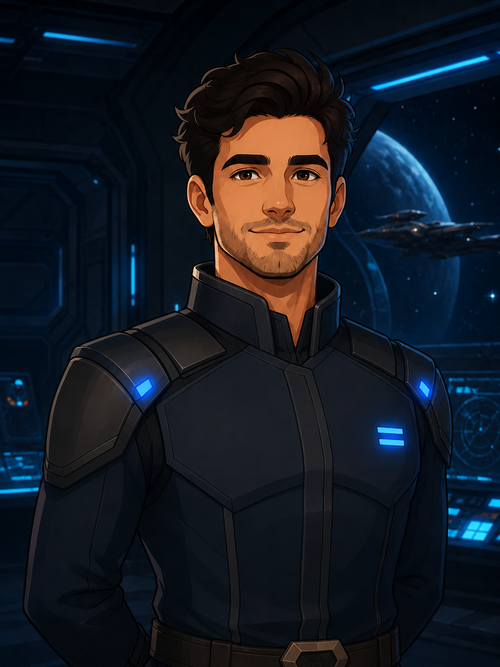
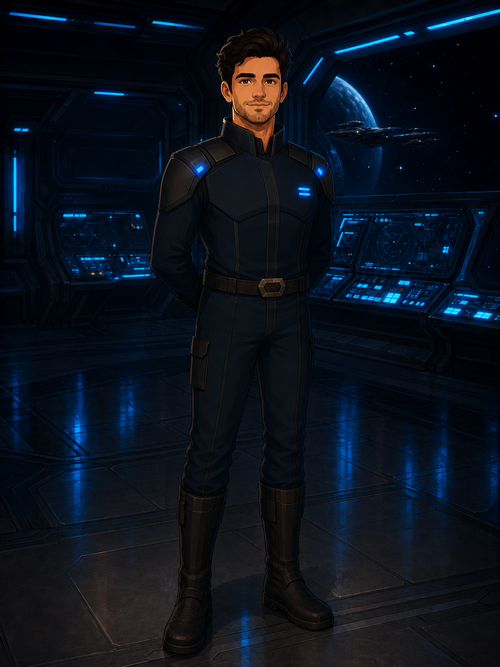
0.0.1 (venda de ouro)

diff --git a/script.js b/script.js
@@ -499,8 +499,12 @@ function aplicarEstadoPioneira(estadoRecebido = null) {
 
   const combustivelTexto = document.getElementById("combustivelNaveTexto");
   const combustivelBarra = document.getElementById("combustivelNaveBarra");
+  const combustivelLocalizacaoTexto = document.getElementById("combustivelLocalizacaoTexto");
+  const combustivelLocalizacaoBarra = document.getElementById("combustivelLocalizacaoBarra");
   const usoTexto = document.getElementById("usoNaveTexto");
   const usoBarra = document.getElementById("usoNaveBarra");
+  const usoLocalizacaoTexto = document.getElementById("usoLocalizacaoTexto");
+  const usoLocalizacaoBarra = document.getElementById("usoLocalizacaoBarra");
 
   const capacidadeCombustivel = 80;
   const capacidadeUso = 100;
@@ -511,21 +515,24 @@ function aplicarEstadoPioneira(estadoRecebido = null) {
   const percentualCombustivel = (combustivel / capacidadeCombustivel) * 100;
   const percentualUso = (uso / capacidadeUso) * 100;
 
-  if (combustivelTexto) {
-    combustivelTexto.textContent = `${Number.isInteger(combustivel) ? combustivel : combustivel.toFixed(1)} / ${capacidadeCombustivel}`;
-  }
+  const textoCombustivel = `${Number.isInteger(combustivel) ? combustivel : combustivel.toFixed(1)} / ${capacidadeCombustivel}`;
+  const textoUso = `${Number.isInteger(uso) ? uso : uso.toFixed(1)} / ${capacidadeUso}`;
 
-  if (combustivelBarra) {
-    combustivelBarra.style.width = `${percentualCombustivel}%`;
-  }
+  [combustivelTexto, combustivelLocalizacaoTexto].forEach((elemento) => {
+    if (elemento) elemento.textContent = textoCombustivel;
+  });
 
-  if (usoTexto) {
-    usoTexto.textContent = `${Number.isInteger(uso) ? uso : uso.toFixed(1)} / ${capacidadeUso}`;
-  }
+  [combustivelBarra, combustivelLocalizacaoBarra].forEach((elemento) => {
+    if (elemento) elemento.style.width = `${percentualCombustivel}%`;
+  });
 
-  if (usoBarra) {
-    usoBarra.style.width = `${percentualUso}%`;
-  }
+  [usoTexto, usoLocalizacaoTexto].forEach((elemento) => {
+    if (elemento) elemento.textContent = textoUso;
+  });
+
+  [usoBarra, usoLocalizacaoBarra].forEach((elemento) => {
+    if (elemento) elemento.style.width = `${percentualUso}%`;
+  });
 }
 
 aplicarEstadoPioneira();
@@ -694,7 +701,6 @@ function renderizarInventarioPioneira() {
     if (!item) return;
 
     slot.classList.add("preenchido");
-    slot.title = `${item.nome}: ${item.quantidade}`;
     slot.setAttribute("aria-label", `${item.nome}, quantidade ${item.quantidade}`);
 
     const elemento = document.createElement("div");
@@ -834,9 +840,23 @@ const botaoReabastecer = document.getElementById("botaoReabastecer");
 const botaoReparar = document.getElementById("botaoReparar");
 
 const modalVenda = document.getElementById("modalVenda");
+const tituloModalVenda = document.getElementById("tituloModalVenda");
 const textoConfirmacaoVenda = document.getElementById("textoConfirmacaoVenda");
+const inputQuantidadeVenda = document.getElementById("inputQuantidadeVenda");
 const cancelarVenda = document.getElementById("cancelarVenda");
 const confirmarVenda = document.getElementById("confirmarVenda");
+const textoAjudaNaveMae = document.querySelector(".nave-mae-ajuda");
+const rotuloCombustivelLocalizacao = document.querySelector(
+  ".estado-localizacao .estado-nave:first-child .estado-nave-topo span"
+);
+
+if (textoAjudaNaveMae) {
+  textoAjudaNaveMae.textContent = "Venda";
+}
+
+if (rotuloCombustivelLocalizacao) {
+  rotuloCombustivelLocalizacao.textContent = "Xen\u00f4nio-9";
+}
 
 const LOCALIZACOES = {
   Terra: {
@@ -1019,6 +1039,7 @@ iniciarViagem = function(destino) {
 
 // ===== VENDA DE OURO NA NAVE MÃE =====
 let quantidadeOuroParaVenda = 0;
+let quantidadeMaximaOuroParaVenda = 0;
 
 function renderizarInventarioNaveMae() {
   if (!inventarioNaveMae) return;
@@ -1037,7 +1058,6 @@ function renderizarInventarioNaveMae() {
       <strong>${item.quantidade}</strong>
       <span>${item.nome}</span>
     `;
-    botao.title = `${item.nome}: ${item.quantidade}`;
     botao.setAttribute("aria-label", `${item.nome}, quantidade ${item.quantidade}`);
 
     if (item.id === "ouro") {
@@ -1103,6 +1123,118 @@ function venderTodoOuro() {
   fecharVendaOuro();
 }
 
+function normalizarQuantidadeVenda(valor) {
+  const maximo = Math.max(0, Math.floor(Number(quantidadeMaximaOuroParaVenda) || 0));
+  const numero = Math.floor(Number(valor));
+
+  if (maximo <= 0) return 0;
+  if (!Number.isFinite(numero) || numero < 1) return 1;
+
+  return Math.min(numero, maximo);
+}
+
+function atualizarResumoVenda(ajustarCampo = false) {
+  const quantidade = normalizarQuantidadeVenda(
+    inputQuantidadeVenda ? inputQuantidadeVenda.value : quantidadeOuroParaVenda
+  );
+
+  quantidadeOuroParaVenda = quantidade;
+
+  if (inputQuantidadeVenda && ajustarCampo) {
+    inputQuantidadeVenda.value = String(quantidade);
+  }
+
+  if (textoConfirmacaoVenda) {
+    textoConfirmacaoVenda.textContent =
+      `Voc\u00ea possui ${quantidadeMaximaOuroParaVenda} de ouro. Cada ouro vale 1 cr\u00e9dito.`;
+  }
+
+  if (confirmarVenda) {
+    confirmarVenda.textContent = `Vender ${quantidade}`;
+  }
+}
+
+abrirVendaOuro = function(quantidade) {
+  quantidadeMaximaOuroParaVenda = Math.max(0, Math.floor(Number(quantidade) || 0));
+  quantidadeOuroParaVenda = Math.min(1, quantidadeMaximaOuroParaVenda);
+
+  if (tituloModalVenda) {
+    tituloModalVenda.textContent = "Vender ouro?";
+  }
+
+  if (inputQuantidadeVenda) {
+    inputQuantidadeVenda.max = String(quantidadeMaximaOuroParaVenda);
+    inputQuantidadeVenda.value = String(quantidadeOuroParaVenda);
+    inputQuantidadeVenda.disabled = quantidadeMaximaOuroParaVenda <= 0;
+  }
+
+  atualizarResumoVenda(true);
+  modalVenda.classList.add("ativo");
+  modalVenda.setAttribute("aria-hidden", "false");
+
+  if (inputQuantidadeVenda) {
+    inputQuantidadeVenda.focus();
+    inputQuantidadeVenda.select();
+  }
+};
+
+fecharVendaOuro = function() {
+  modalVenda.classList.remove("ativo");
+  modalVenda.setAttribute("aria-hidden", "true");
+  quantidadeOuroParaVenda = 0;
+  quantidadeMaximaOuroParaVenda = 0;
+
+  if (inputQuantidadeVenda) {
+    inputQuantidadeVenda.value = "1";
+    inputQuantidadeVenda.removeAttribute("max");
+    inputQuantidadeVenda.disabled = false;
+  }
+
+  if (confirmarVenda) {
+    confirmarVenda.textContent = "Vender 1";
+  }
+};
+
+venderTodoOuro = function() {
+  quantidadeOuroParaVenda = normalizarQuantidadeVenda(
+    inputQuantidadeVenda ? inputQuantidadeVenda.value : quantidadeOuroParaVenda
+  );
+
+  if (quantidadeOuroParaVenda <= 0) return;
+
+  const inventario = carregarInventarioPioneira();
+  const indice = inventario.findIndex((item) => item?.id === "ouro");
+
+  if (indice < 0) {
+    fecharVendaOuro();
+    return;
+  }
+
+  const quantidadeVendida = Math.min(
+    quantidadeOuroParaVenda,
+    inventario[indice].quantidade
+  );
+  const creditosAtuais = Number(localStorage.getItem(CHAVE_CREDITOS) || "100");
+
+  localStorage.setItem(
+    CHAVE_CREDITOS,
+    String(creditosAtuais + quantidadeVendida)
+  );
+
+  inventario[indice].quantidade -= quantidadeVendida;
+
+  if (inventario[indice].quantidade <= 0) {
+    inventario[indice] = null;
+  }
+
+  salvarInventarioPioneira(inventario);
+  aplicarCreditosIniciais();
+  renderizarInventarioNaveMae();
+  fecharVendaOuro();
+};
+
+inputQuantidadeVenda?.addEventListener("input", () => atualizarResumoVenda(false));
+inputQuantidadeVenda?.addEventListener("change", () => atualizarResumoVenda(true));
 cancelarVenda?.addEventListener("click", fecharVendaOuro);
 confirmarVenda?.addEventListener("click", venderTodoOuro);
 

diff --git a/style.css b/style.css
@@ -930,6 +930,14 @@ body.modal-aberto {
   transition: width 0.1s linear;
 }
 
+.estado-localizacao {
+  grid-template-columns: 1fr;
+  gap: 12px;
+  margin-top: 16px;
+  padding-top: 14px;
+  border-top: 1px solid rgba(255,255,255,0.06);
+}
+
 /* Modal da viagem */
 .modal-viagem {
   position: fixed;
@@ -2315,7 +2323,7 @@ body.modal-aberto {
   box-shadow: 0 12px 28px rgba(0,0,0,0.38);
   color: #ffffff;
   font-family: var(--fonte-jogo);
-  font-size: 8px;
+  font-size: 12px;
   line-height: 1.3;
   text-align: center;
   white-space: nowrap;
@@ -2534,6 +2542,35 @@ body.modal-aberto {
   line-height: 1.6;
 }
 
+.controle-venda-quantidade {
+  display: grid;
+  gap: 8px;
+  margin-top: 18px;
+  color: var(--texto-fraco);
+  font-family: var(--fonte-jogo);
+  font-size: 12px;
+  text-transform: uppercase;
+  letter-spacing: 0.7px;
+}
+
+.controle-venda-quantidade input {
+  width: 100%;
+  height: 42px;
+  padding: 0 12px;
+  border: 1px solid rgba(209,164,52,0.36);
+  border-radius: 9px;
+  background: rgba(255,255,255,0.035);
+  color: #ffffff;
+  font-family: var(--fonte-jogo);
+  font-size: 14px;
+  outline: none;
+}
+
+.controle-venda-quantidade input:focus {
+  border-color: rgba(242,210,112,0.68);
+  box-shadow: 0 0 0 2px rgba(209,164,52,0.12);
+}
+
 .modal-venda-acoes {
   display: grid;
   grid-template-columns: 1fr 1fr;
@@ -2681,4 +2718,11 @@ input {
 .progresso-card {
   gap: 9px;
   padding: 11px;
+}
+
+.barras-estado-nave.estado-localizacao {
+  grid-template-columns: 1fr;
+  gap: 12px;
+  margin-top: 16px;
+  padding-top: 14px;
 }

diff --git a/index.html b/index.html
@@ -324,6 +324,36 @@
                   <div class="barra-viagem" aria-label="Progresso da viagem">
                     <div class="barra-viagem-preenchida" id="barraViagemPreenchida"></div>
                   </div>
+
+                  <div class="barras-estado-nave estado-localizacao">
+                    <div class="estado-nave">
+                      <div class="estado-nave-topo">
+                        <span>XenÃ´nio-9</span>
+                        <strong id="combustivelLocalizacaoTexto">80 / 80</strong>
+                      </div>
+                      <div class="estado-nave-barra">
+                        <div
+                          class="estado-nave-preenchimento combustivel"
+                          id="combustivelLocalizacaoBarra"
+                          style="width: 100%;"
+                        ></div>
+                      </div>
+                    </div>
+
+                    <div class="estado-nave">
+                      <div class="estado-nave-topo">
+                        <span>Integridade</span>
+                        <strong id="usoLocalizacaoTexto">100 / 100</strong>
+                      </div>
+                      <div class="estado-nave-barra">
+                        <div
+                          class="estado-nave-preenchimento uso"
+                          id="usoLocalizacaoBarra"
+                          style="width: 100%;"
+                        ></div>
+                      </div>
+                    </div>
+                  </div>
                 </div>
               </aside>
 
@@ -644,10 +674,22 @@
   <div class="modal-venda" id="modalVenda" aria-hidden="true">
     <div class="modal-venda-caixa">
       <span class="modal-venda-subtitulo">COMÉRCIO DA NAVE MÃE</span>
-      <h2>Vender 1 ouro?</h2>
+      <h2 id="tituloModalVenda">Vender ouro?</h2>
       <p id="textoConfirmacaoVenda">
         Tem certeza de que deseja vender 1 de ouro por 1 crédito?
       </p>
+
+      <label class="controle-venda-quantidade" for="inputQuantidadeVenda">
+        <span>Quantidade</span>
+        <input
+          type="number"
+          id="inputQuantidadeVenda"
+          min="1"
+          step="1"
+          value="1"
+          inputmode="numeric"
+        />
+      </label>
 
       <div class="modal-venda-acoes">
         <button type="button" id="cancelarVenda">Cancelar</button>